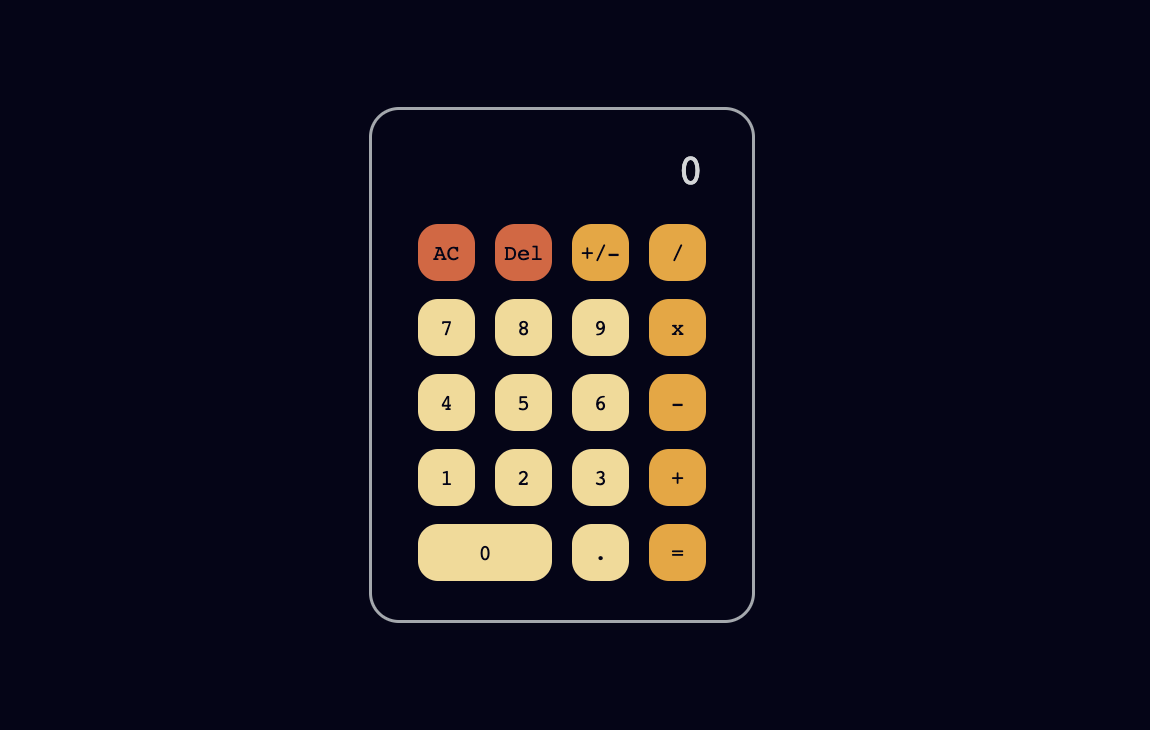
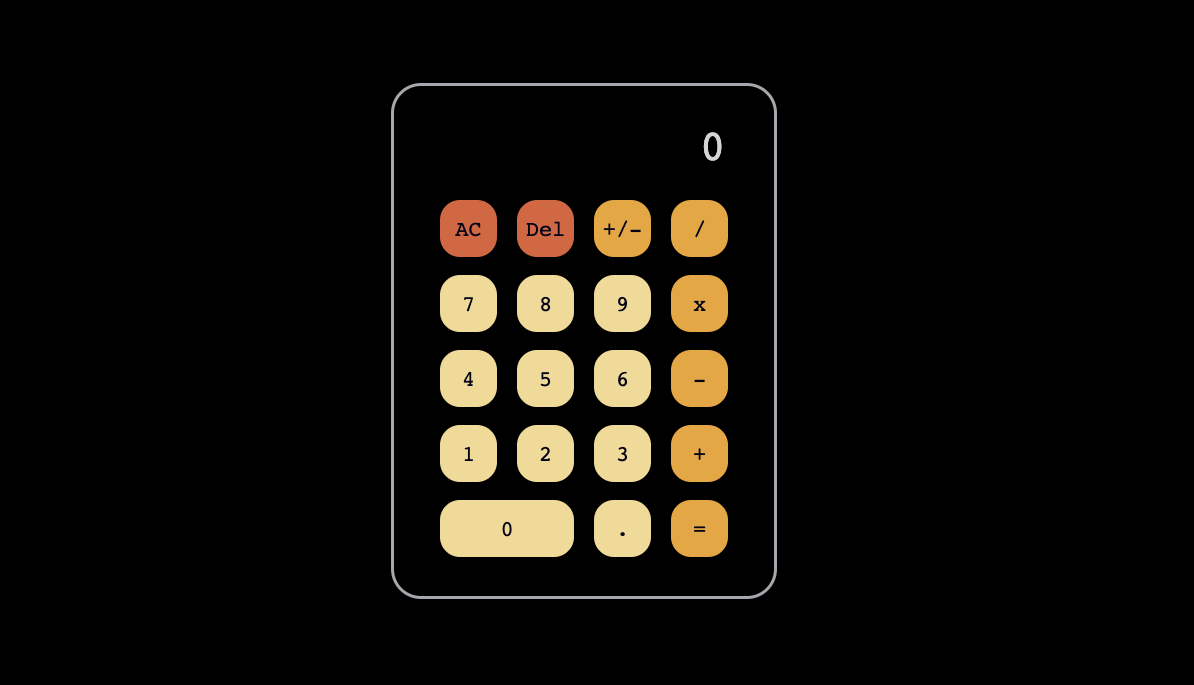
Update background color and README

Changed region(s): [[0.3043, 0.1226, 0.6696, 0.8891], [0.5783, 0.1839, 0.6087, 0.2453]]

diff --git a/style.css b/style.css
@@ -8,8 +8,8 @@ body {
     display: flex;
     align-items: center;
     justify-content: center;
-    background-color: #050517;
-    color: #050517;
+    background-color: black;
+    color: black;
     height: 90vh;
     width: 80vw;
     min-height: 650px;

diff --git a/README.md b/README.md
@@ -10,7 +10,7 @@ Calculator app.
 * The same behavior as in regular calculator (except few simplifications)
 * Input by mouse or keys
 * Limited input length to prevent display overflow
-* Exponential notation for large numbers (negative exponents reduced to 0)
+* Exponential notation for large numbers
 * Backspace
 
 ## Technologies
